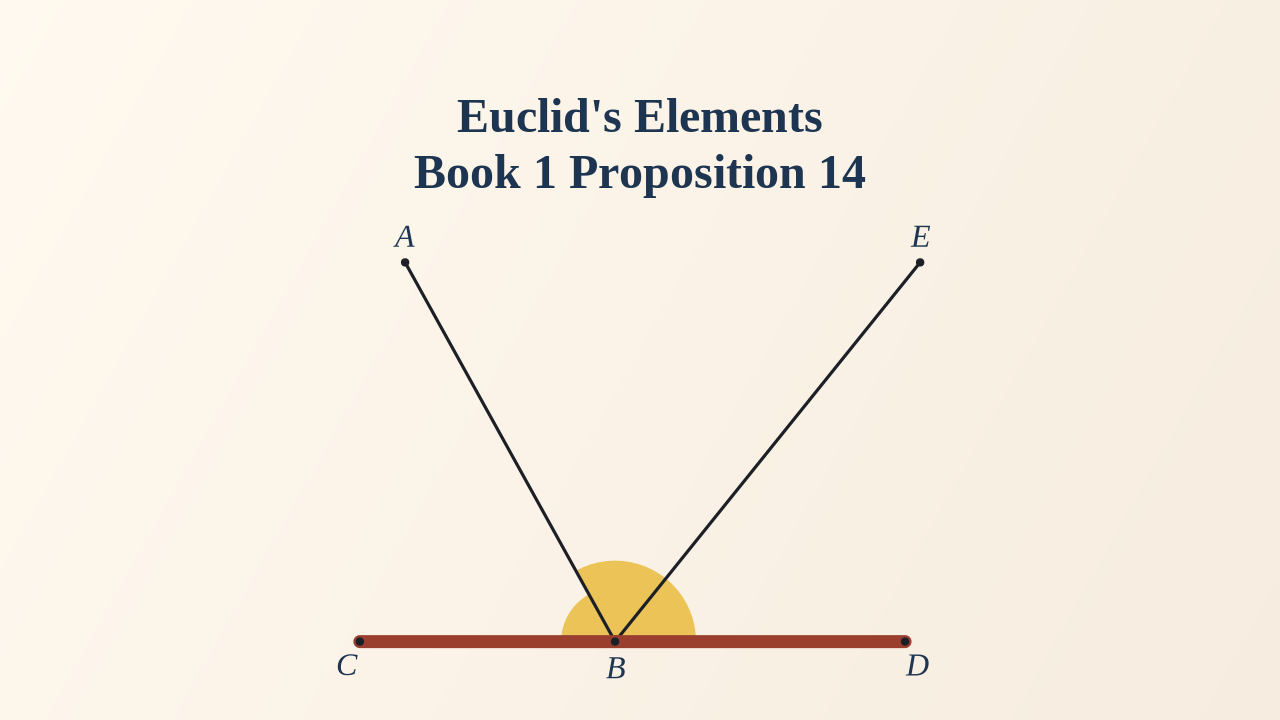
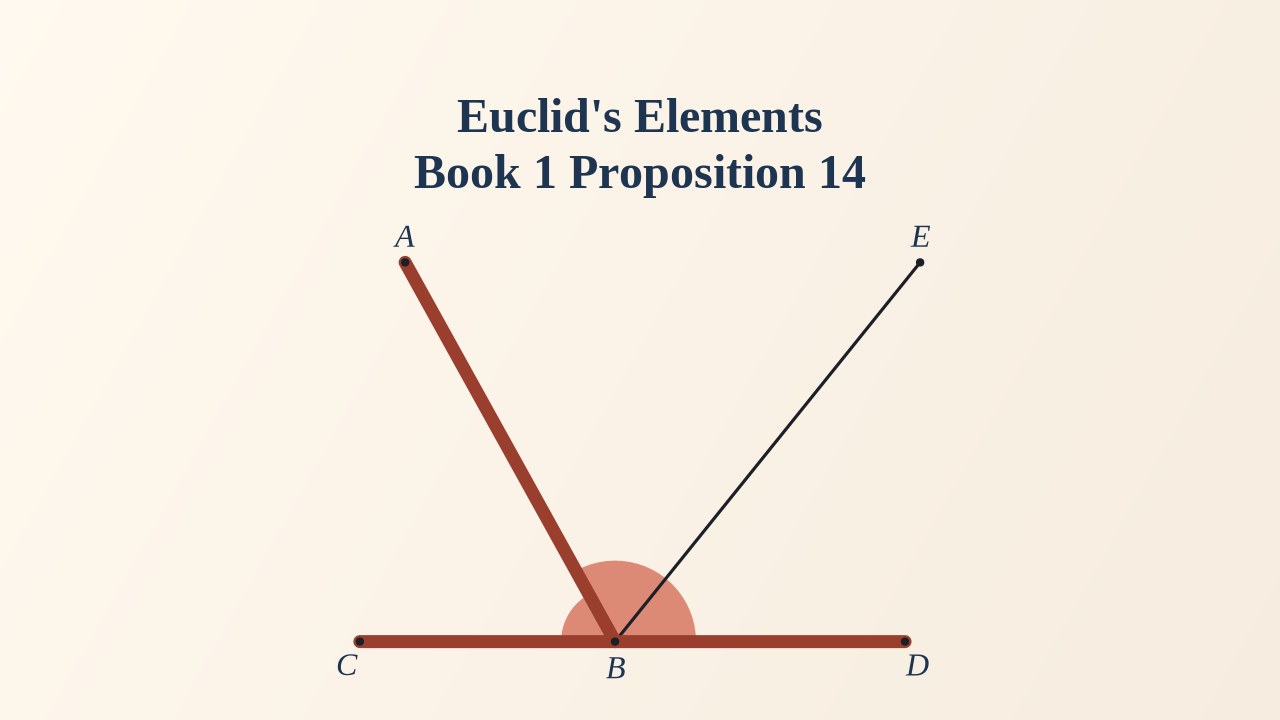
Mark the named lines on the I.13 and I.14 thumbnails. (#72)
* Mark the named lines on the I.13 and I.14 thumbnails.

I.13 is a line stood on a line, so AB and CD take the brick. I.14 names the two that are straight-on and the line they stand on, so BC, BD, and AB take the brick. Construction strokes stay plate ink.

* Use the default rose pie on the I.13 and I.14 thumbnails.

Yellow is the second set. These cards have one, so the angles take the rose at the I.42 card radius.

Changed region(s): [[0.375, 0.55, 0.5625, 0.8861], [0.3125, 0.3667, 0.375, 0.55]]

diff --git a/scripts/youtube_book1_thumbs.py b/scripts/youtube_book1_thumbs.py
@@ -85,18 +85,22 @@ the drawn line a perpendicular. AB and CH take the brick. ∠CHG and
 shrink on this larger plate. A pie would read as any angle. A wash has
 no interior the enunciation names. I.13 is
 the adjacent angles a straight-line stood on another makes: two
-right-angles, or angles whose sum is two right-angles. The card keeps
-the plate — BE is the right-angle drawn for the proof, not the subject —
-and marks the angles the enunciation names. ∠CBA and ∠ABD take one
-yellow pie, the I.42 card radius, so the mark matches that pie and
-does not shrink on this taller plate. ∠ABC takes half again that
-radius — a hair still reads as one size, and the acute corner would
-otherwise read as the lesser mark. A wash of the half-plane would light a region the
+right-angles, or angles whose sum is two right-angles. The enunciation
+names both lines. The card keeps the plate — BE is the right-angle
+drawn for the proof, not the subject — and marks those two lines and
+the angles they make. AB and CD take the brick. B lies on CD, so the
+stood-on line is the whole chord. ∠CBA and ∠ABD take one rose pie,
+the default, at the I.42 card radius, so the mark matches that pie and
+does not shrink on this taller plate. Yellow is the second set, and
+this card has one. ∠ABC takes half again that radius — a hair still
+reads as one size, and the acute corner would otherwise read as the
+lesser mark. A wash of the half-plane would light a region the
 proposition does not claim. I.14 is the converse: adjacent angles equal
 to two right-angles, so the two straight-lines are straight-on. The card
-keeps the plate — AB is the line they stand on, BE is the reductio, not
-the subject — and marks the two lines and the adjacent angles. BC and BD
-take the brick. ∠ABC and ∠ABD take one yellow pie, the I.42 card
+keeps the plate — BE is the reductio, not the subject — and marks the
+three lines the enunciation names and the adjacent angles. BC and BD,
+the two that are straight-on, and AB, the line they stand on, take the
+brick. ∠ABC and ∠ABD take one rose pie, the I.42 card
 radius, as on I.13. ∠ABD takes half again that radius, so the larger
 mark sits on the right, as on I.13.
 A wash has no interior.
@@ -255,9 +259,15 @@ LINES: dict[int, list[tuple[str, str]]] = {
     # AB, so the given line is the whole chord. CG and CE are the joins
     # of the construction, not the subject.
     12: [("A", "B"), ("C", "H")],
-    # BC and BD, the two straight-lines that are straight-on. BE is the
-    # reductio, not the subject. AB is the line they stand on.
-    14: [("B", "C"), ("B", "D")],
+    # AB, the straight-line that stands, and CD, the straight-line it
+    # stands on. The enunciation names both. B lies on CD, so the stood-on
+    # line is the whole chord. BE is the right-angle drawn for the proof,
+    # not the subject.
+    13: [("A", "B"), ("C", "D")],
+    # BC and BD, the two straight-lines that are straight-on, and AB, the
+    # line they stand on. The enunciation names all three. BE is the
+    # reductio, not the subject.
+    14: [("B", "C"), ("B", "D"), ("A", "B")],
     # The sides the squares stand on, BA, AC, and BC. AD and DC are the
     # construction, and they stay the plate ink.
     48: [("B", "A"), ("A", "C"), ("B", "C")],
@@ -299,7 +309,8 @@ ANGLES: dict[int, list[list[tuple[str, str, str]]]] = {
     # not a pie. Both lines the enunciation names are the brick (LINES).
     12: [[("C", "H", "G"), ("E", "H", "C")]],
     # ∠CBA and ∠ABD, the adjacent angles a stood line makes. One set: the
-    # enunciation names the pair, not an equality of the two.
+    # enunciation names the pair, not an equality of the two. Both lines
+    # the enunciation names are the brick (LINES).
     13: [[("C", "B", "A"), ("A", "B", "D")]],
     # ∠ABC and ∠ABD, the adjacent angles equal to two right-angles. One set.
     14: [[("A", "B", "C"), ("A", "B", "D")]],
@@ -356,17 +367,19 @@ ANGLE_MARK: dict[int, list[tuple[tuple[int, int, int], float | None]]] = {
     # that square, not a fraction of the arm. A shared plate radius
     # shrinks on this larger plate. Both lines are the brick (LINES).
     12: [(PIE_ALT, None)],
-    # ∠CBA and ∠ABD, the angles the stood line makes. One set, the I.42
-    # card size: same pixel radius as that pie, not a fraction of the arm.
-    # A shared plate radius shrinks on this taller plate. ∠ABC takes half
+    # ∠CBA and ∠ABD, the angles the stood line makes. One set, the default
+    # rose at the I.42 card size: same pixel radius as that pie, not a
+    # fraction of the arm. A shared plate radius shrinks on this taller
+    # plate. Yellow is the second set; this card has one. ∠ABC takes half
     # again (ANGLE_HAIR) so the two radii read apart, and so the acute
-    # corner is not the lesser mark.
-    13: [(PIE, None)],
+    # corner is not the lesser mark. Both lines are the brick (LINES).
+    13: [(PIE_ALT, None)],
     # ∠ABC and ∠ABD, the adjacent angles equal to two right-angles. One
-    # set, the I.42 card size, as on I.13. ∠ABD takes half again
-    # (ANGLE_HAIR) so the larger mark sits on the right, as on I.13. The
-    # two lines that are straight-on are the brick (LINES). BE is the reductio.
-    14: [(PIE, None)],
+    # set, the default rose at the I.42 card size, as on I.13. ∠ABD takes
+    # half again (ANGLE_HAIR) so the larger mark sits on the right, as on
+    # I.13. The two lines that are straight-on are the brick (LINES). BE
+    # is the reductio.
+    14: [(PIE_ALT, None)],
     # I.15 has two equalities. Both sets take the default pie, the I.42
     # card radius, so neither pair reads as the lesser mark. One pair is
     # the rose. The other is yellow, so the two equalities do not read as
